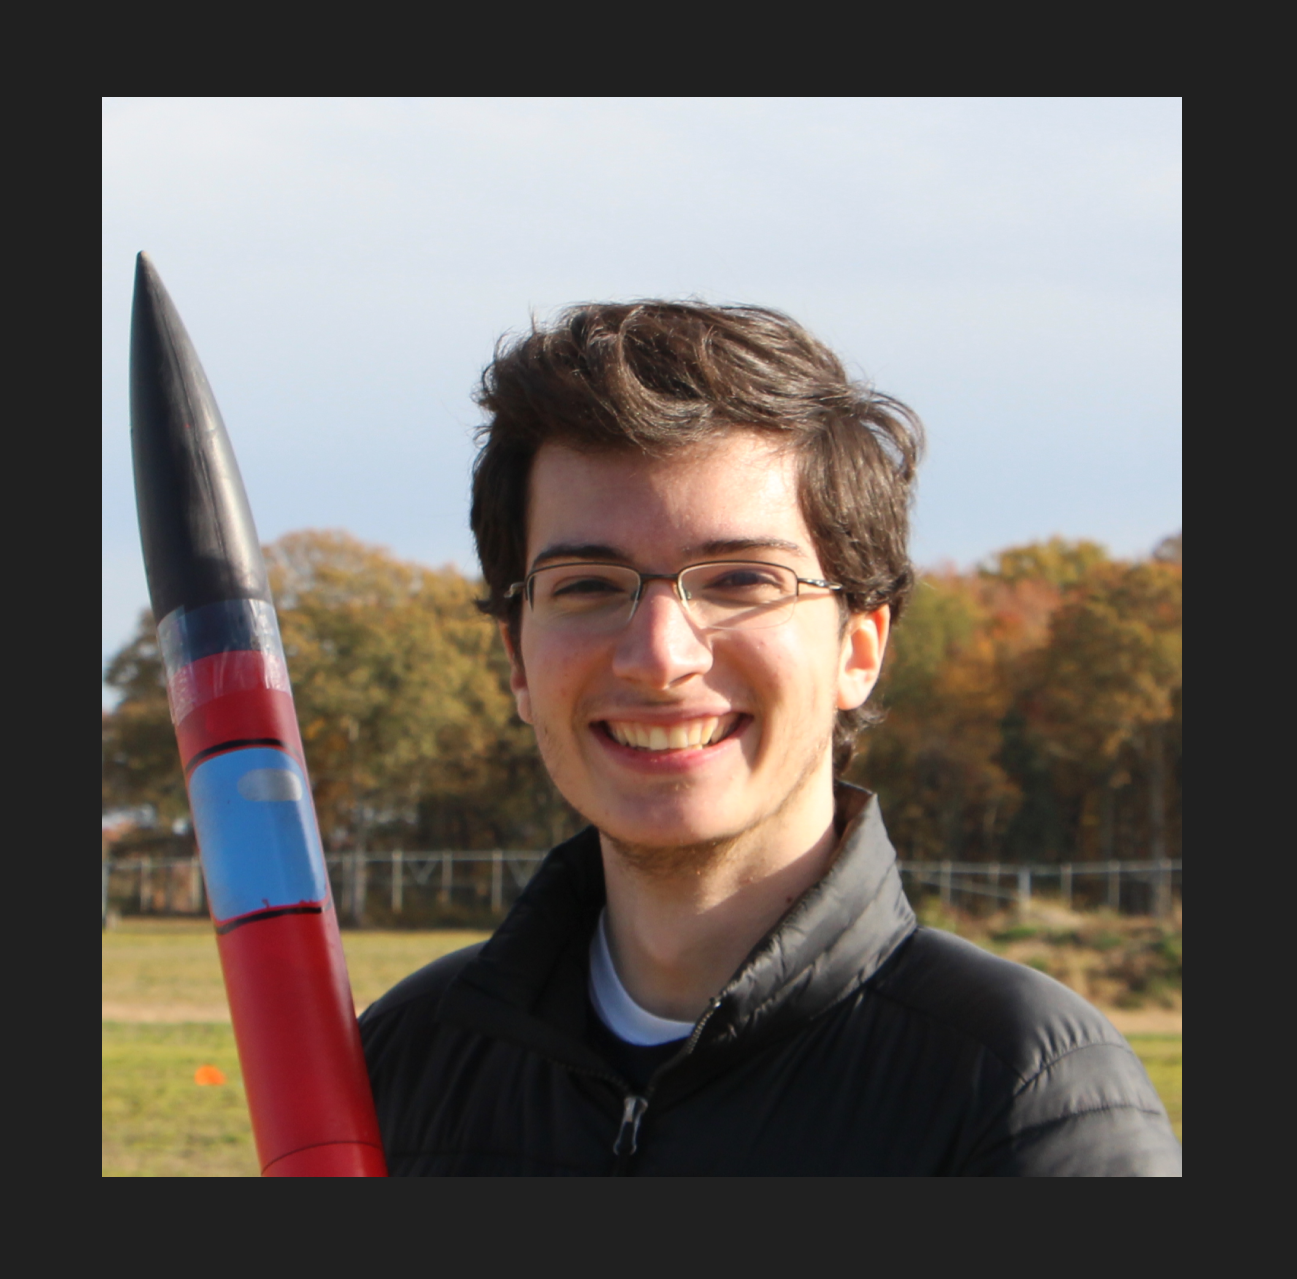
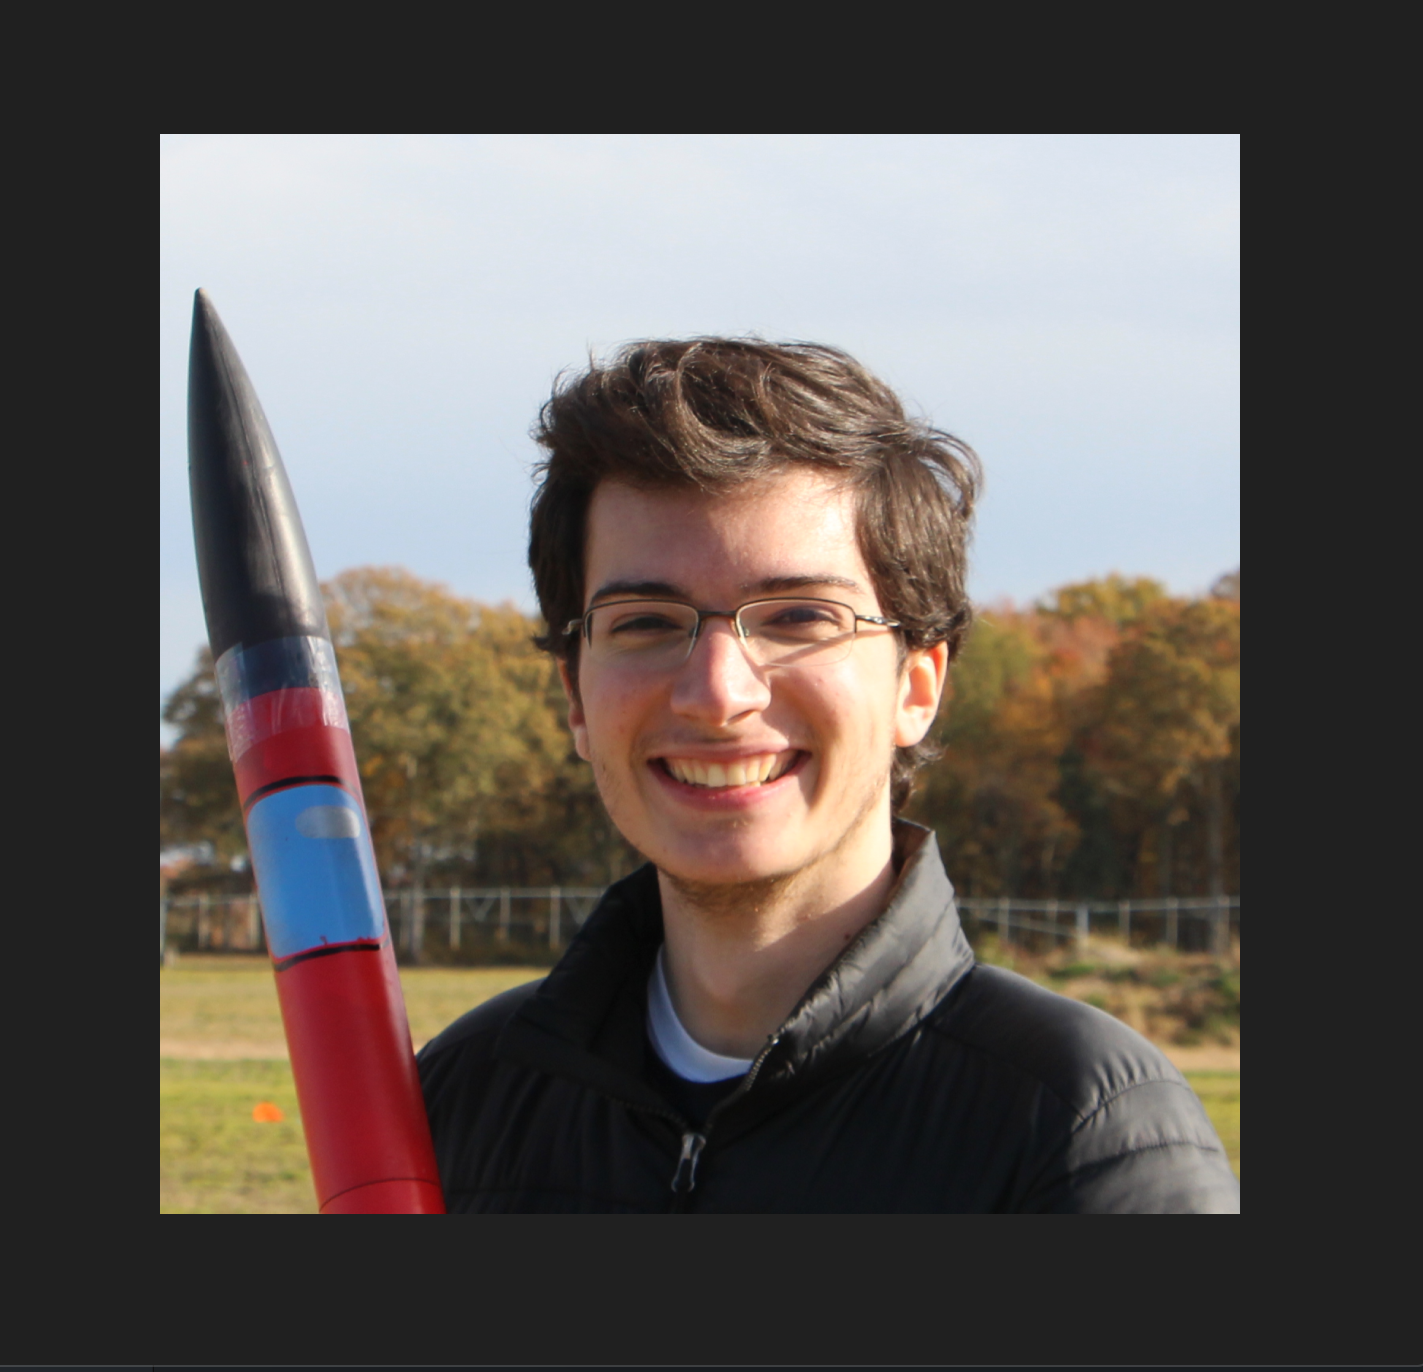
Padded photos

Changed region(s): [[0.0617, 0.061, 0.9252, 0.9453]]

diff --git a/_layouts/default.html b/_layouts/default.html
@@ -28,7 +28,7 @@
 	<body>
 		<header>
 			<div class="container">
-				<div class="company-name"><a href="{{ site.baseurl }}/"><img src="{{ site.baseurl }}/images/astrojays_logo.png"" alt="Logo" width="95" height="50" /></a></div>
+				<div class="company-name"><a href="{{ site.baseurl }}/"><img src="{{ site.baseurl }}/images/astrojays_logo.png"" alt="Logo" width="95" height="75" /></a></div>
 				{% include navigation.html %}
 			</div>
 		</header>

diff --git a/_alumni/23-rishi.md b/_alumni/23-rishi.md
@@ -1,6 +1,6 @@
 ---
 name: Rishi Bachani
 position: Propulsion
-image_path: /images/team_members/rishi.png
+image_path: /images/team_members/rishi_pad.png
 yearmajor: B.S. Neuroscience, 2023
 ---

diff --git a/_staff_members/3-jay.md b/_staff_members/3-jay.md
@@ -1,6 +1,6 @@
 ---
 name: Jay Lawrence
 position: Structures Lead
-image_path: /images/team_members/jay.png
+image_path: /images/team_members/jay_pad.png
 yearmajor: B.S. 2024, EMech & AMS
 ---

diff --git a/_staff_members/2-alex.md b/_staff_members/2-alex.md
@@ -1,6 +1,6 @@
 ---
 name: Alex Ren
 position: VP, Propulsion Lead
-image_path: /images/team_members/alexR.png
+image_path: /images/team_members/alex_pad.png
 yearmajor: B.S. 2024, MechE
 ---

diff --git a/_alumni/22-evan.md b/_alumni/22-evan.md
@@ -1,6 +1,6 @@
 ---
 name: Evan Morris
 position: Propulsion
-image_path: /images/team_members/evan.jpg
+image_path: /images/team_members/evan_pad.png
 yearmajor: B.S. ChemBE, 2022
 ---

diff --git a/_alumni/23-david.md b/_alumni/23-david.md
@@ -1,6 +1,6 @@
 ---
 name: David Chuong
 position: Avionics
-image_path: /images/team_members/david.jpg
+image_path: /images/team_members/david_pad.png
 yearmajor: B.S. EE, 2023
 ---
